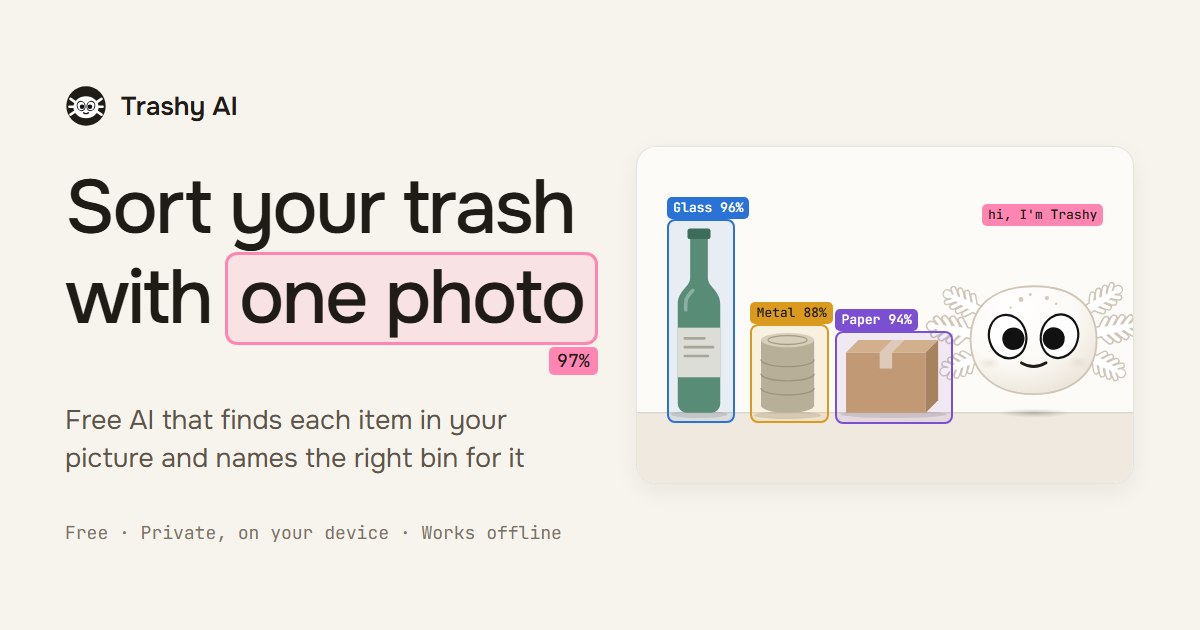
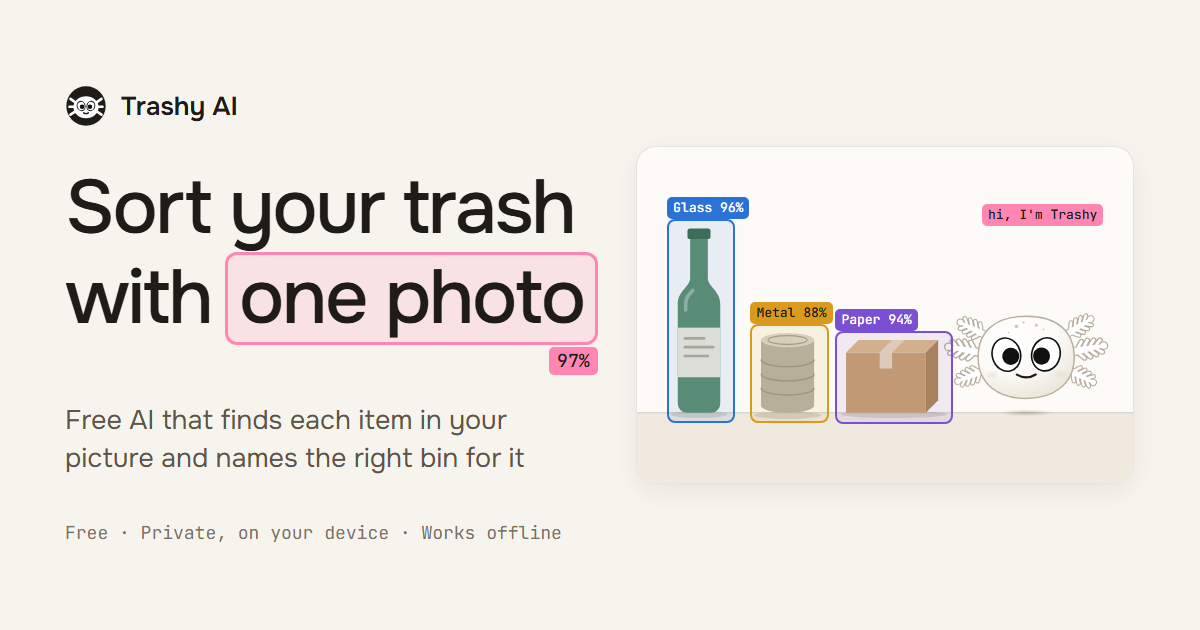
Faster start, label fixes, phone layout and an example photo
Start-up: the status shows the download progress and the greeting
appears right away. The 19 MB backup engine is fetched when a photo
needs it, and ahead of time only in the installed app.

Results: a pencil on each row lets people correct a label or mark it as
not trash. Fixes are kept on the device (at most 120, each with a small
cut-out of the item) and can be saved as a file from the menu. The
privacy policy says so.

Phone start screen: the mascot sits beside a shorter headline so the
greeting fits on the first screen. The chat avatar and the mascot
outline stand out more in light mode.

Opening the app with ?example analyses the bundled example photo; the
about page links to it. Service worker cache is trashy-v8.

Changed region(s): [[0.7708, 0.4524, 0.9558, 0.6333]]

diff --git a/index.html b/index.html
@@ -94,7 +94,10 @@ button:active{transform:scale(.98)}
 .m{display:flex;gap:12px;align-items:flex-end;margin:20px 0;animation:pop .3s var(--ease) both}
 @keyframes pop{from{opacity:0;transform:translateY(8px)}}
 .m.user{justify-content:flex-end}
-.av{flex:none;width:40px;height:40px;border-radius:50%;background:var(--raised);border:1px solid var(--line);overflow:hidden}
+/* the axolotl is white: a deeper tint behind it and a firmer outline keep it readable on the light page */
+.av{flex:none;width:40px;height:40px;border-radius:50%;background:color-mix(in srgb,var(--accent) 34%,var(--raised));border:1px solid var(--line-2);overflow:hidden}
+.av .ax,#heroAx .ax{--ol:#a89c8b}
+@media(prefers-color-scheme:dark){.av{background:var(--raised);border-color:var(--line)}}
 .av svg{display:block;width:100%;height:100%;overflow:hidden}
 .col{flex:1;min-width:0;display:flex;flex-direction:column;align-items:flex-start;gap:4px}
 .who{margin-left:4px;font:400 12px/16px var(--mono);color:var(--mut)}
@@ -119,6 +122,18 @@ button:active{transform:scale(.98)}
 .gr.load{grid-template-columns:1fr 44px;margin-top:8px}
 .gr.load .gt i{transition-duration:.3s}
 .prog{margin-left:8px;color:var(--mut);font-size:14px}
+/* fixing a wrong label: a pencil at the end of each row opens the choices */
+.gr.fx{grid-template-columns:104px 1fr 44px 36px;gap:8px 12px;height:36px}
+.fixb{width:36px;height:36px;padding:0;background:none;color:var(--mut);display:grid;place-items:center}
+.fixb:hover,.fixb[aria-expanded=true]{background:var(--raised);color:var(--ink)}
+.fixb svg{width:16px;height:16px;fill:none;stroke:currentColor;stroke-width:1.5;stroke-linecap:round;stroke-linejoin:round}
+.fixp{margin:4px 0 12px;padding:12px;border:1px solid var(--line);border-radius:12px;background:var(--bg)}
+.fixp p{margin:0 0 8px;font-size:13px;line-height:20px;color:var(--mut)}
+.fixp div{display:flex;flex-wrap:wrap;gap:8px}
+.fixp button{display:inline-flex;align-items:center;gap:8px;height:36px;padding:0 12px;background:var(--surface);border:1px solid var(--line-2);font-size:14px;font-weight:400}
+.fixp button:hover{background:var(--raised)}
+.fixp button::before{content:"";flex:none;width:8px;height:8px;border-radius:2px;background:var(--c,var(--mut))}
+.note{margin:12px 0 0;font-size:13px;line-height:20px;color:var(--mut)}
 .steps2{margin:8px 0 0;padding-left:20px;color:var(--ink-2);font-size:15px}
 .steps2 li{margin:4px 0}
 .typing i{display:inline-block;width:6px;height:6px;margin:4px 2px;border-radius:50%;background:var(--mut);animation:bl 1s infinite}
@@ -190,11 +205,15 @@ dialog[open]::backdrop{background:rgb(22 21 19/.5)}
 
 /* ---------- Small screens ---------- */
 @media(max-width:600px){
- #hero{grid-template-columns:1fr;gap:8px;padding-top:8px}#heroAx{width:140px;margin-left:-16px}
- #hero h1{font-size:36px}#hero p{font-size:16px;line-height:24px}
- .chips{flex-direction:column}
+ /* phone: the axolotl sits beside a shorter headline, so the first chat message stays on the first screen */
+ #hero{grid-template-columns:104px minmax(0,1fr);grid-template-areas:"ax h" "rest rest";gap:4px 12px;align-items:center;padding:4px 0 8px}
+ #hero>div:last-child{display:contents}
+ #heroAx{grid-area:ax;margin-left:-8px}
+ #hero h1{grid-area:h;margin:0;font-size:clamp(26px,7.4vw,32px)}
+ #hero p{grid-column:1/-1;font-size:16px;line-height:24px}
+ .chips{grid-column:1/-1;margin-top:8px;gap:2px 16px}
  .right{gap:8px}.pill{max-width:44vw;font-size:12px}.inst span{display:none}.inst{width:36px;padding:0;justify-content:center}
- .m{gap:8px}.b{max-width:90%}.gr{grid-template-columns:84px 1fr 40px}
+ .m{gap:8px}.b{max-width:90%}.gr{grid-template-columns:84px 1fr 40px}.gr.fx{grid-template-columns:76px 1fr 40px 36px;gap:8px}
 }
 @media(max-width:430px){#gal span{display:none}#gal{width:44px;padding:0}.brand{font-size:0;gap:0}.lang select{padding:0 24px 0 28px}.pill{max-width:none;flex:1 1 auto}}
 @media(prefers-reduced-motion:reduce){*,*::before,*::after,::backdrop{animation:none!important;transition:none!important}}
@@ -212,7 +231,7 @@ dialog[open]::backdrop{background:rgb(22 21 19/.5)}
  <ul class="chips"><li data-i18n="chip1">Finds several items</li><li data-i18n="chip2">Draws a box around each</li><li data-i18n="chip3">Shows how sure it is</li></ul></div></section></main>
 <div class="dock">
  <div id="drop">
-  <nav id="menu" aria-label="Menu"><button type="button" data-a="how" data-i18n="mHow">How it works</button><button type="button" data-a="clear" data-i18n="mClear">Clear chat</button><button type="button" data-a="install" id="instMenu" data-i18n="mInstall" hidden>Install on your phone</button><div id="detMenu" role="radiogroup" aria-labelledby="detL"><p id="detL" data-i18n="mModel">Model</p><button type="button" data-m="t01" role="radio" aria-checked="true"><b>Trashy-0.1</b><small data-i18n="dT01">Finds more items</small></button><button type="button" data-m="axel1" role="radio" aria-checked="false"><b>Trashy-Axel 1.3</b><small data-i18n="dAxel">Fewer extra boxes</small></button></div></nav>
+  <nav id="menu" aria-label="Menu"><button type="button" data-a="how" data-i18n="mHow">How it works</button><button type="button" data-a="clear" data-i18n="mClear">Clear chat</button><button type="button" data-a="export" id="fixMenu" hidden></button><button type="button" data-a="install" id="instMenu" data-i18n="mInstall" hidden>Install on your phone</button><div id="detMenu" role="radiogroup" aria-labelledby="detL"><p id="detL" data-i18n="mModel">Model</p><button type="button" data-m="t01" role="radio" aria-checked="true"><b>Trashy-0.1</b><small data-i18n="dT01">Finds more items</small></button><button type="button" data-m="axel1" role="radio" aria-checked="false"><b>Trashy-Axel 1.3</b><small data-i18n="dAxel">Fewer extra boxes</small></button></div></nav>
   <div class="bar"><button type="button" class="act main" id="cam"><svg viewBox="0 0 24 24" aria-hidden="true"><path d="M4 8.5A2.5 2.5 0 0 1 6.5 6h1.7l1.3-2h5l1.3 2h1.7A2.5 2.5 0 0 1 20 8.5v8a2.5 2.5 0 0 1-2.5 2.5h-11A2.5 2.5 0 0 1 4 16.5z"/><circle cx="12" cy="12.3" r="3.4"/></svg><span data-i18n="take">Take photo</span></button><button type="button" class="act main" id="gal" aria-label="Choose photo" data-i18n-aria="choose"><svg viewBox="0 0 24 24" aria-hidden="true"><rect x="3.5" y="4.5" width="17" height="15" rx="3"/><circle cx="9" cy="10" r="1.8"/><path d="M20.5 15.5l-4.5-4.5-8.5 8.5"/></svg><span data-i18n="choose">Choose photo</span></button><span class="or" data-i18n="dropHint">or drop or paste a picture here</span><button id="pick" type="button" aria-label="More" data-i18n-aria="more" aria-haspopup="true" aria-expanded="false" aria-controls="menu"><svg viewBox="0 0 24 24" aria-hidden="true"><circle cx="5.5" cy="12" r="1.6"/><circle cx="12" cy="12" r="1.6"/><circle cx="18.5" cy="12" r="1.6"/></svg></button></div>
   <input id="files" type="file" accept="image/*" multiple hidden>
   <input id="camIn" type="file" accept="image/*" capture="environment" hidden>
@@ -224,7 +243,7 @@ dialog[open]::backdrop{background:rgb(22 21 19/.5)}
 
 <template id="axFallback"><svg xmlns="http://www.w3.org/2000/svg" xmlns:xlink="http://www.w3.org/1999/xlink" class="ax s-idle" viewBox="0 30 400 340" width="400" height="340" role="img" aria-label="Axolotl creature mascot">
 <style>
-.ax{color-scheme:only light;--hd1:#fff;--hd2:#fcfaf6;--hd3:#e9e2d6;--ol:#cfc6b8;--ln:#1f1b16;--eo:#111;--se:#111;--sc:#fff;--pa:#111;--pb:#111;--bl:#d8cfc2;overflow:visible}
+.ax{color-scheme:only light;--hd1:#fff;--hd2:#fcfaf6;--hd3:#e9e2d6;--ol:#b9ad9c;--ln:#1f1b16;--eo:#111;--se:#111;--sc:#fff;--pa:#111;--pb:#111;--bl:#d8cfc2;overflow:visible}
 .ax .ly,.ax .ax-dec{opacity:0}
 .ax.s-idle .l-idle,.ax.s-joy .l-joy,.ax.s-love .l-love,.ax.s-cool .l-cool,.ax.s-wow .l-wow,
 .ax.s-angry .l-angry,.ax.s-loading .l-loading,.ax.s-sleep .l-sleep{opacity:1}
@@ -472,6 +491,7 @@ en:{title:'Trashy: Trash sorting AI',lang:'Language',loading:'Loading…',
  scanning:p=>`Scanning ${p}%`,fitting:'Fitting the boxes…',waiting:'Waiting for my turn…',looking:'Looking…',
  noModel:'I can’t find my model file.',noNet:'My image engine didn’t load. Reload the page to try again.',
  noTrash:'I don’t see any trash I know in this picture.',badPic:'I couldn’t read that picture. Try another one.',
+ fix:'Wrong? Fix it',fixQ:'What is it really?',fixNone:'Not trash',fixSaved:'Thanks. Your fix is saved on this device only.',fixAll:'Thanks. I took the boxes away.',mExport:n=>`Save my fixes as a file (${n})`,
  cats:{Paper:'Paper',Plastic:'Plastic',Glass:'Glass',Metal:'Metal',Trash:'Trash'},
  iTitle:'Put Trashy on your phone',iIntro:'Trashy then opens like an app from your home screen. After the first start it also works without internet.',
  iBtn:'Install Trashy',iDone:'Trashy is installed. You can open it from your home screen.',
@@ -497,6 +517,7 @@ de:{title:'Trashy: KI zum Mülltrennen',lang:'Sprache',loading:'Wird geladen…'
  scanning:p=>`Suche… ${p}%`,fitting:'Rahmen werden angepasst…',waiting:'Gleich bin ich dran…',looking:'Ich schaue…',
  noModel:'Ich finde meine Modelldatei nicht.',noNet:'Meine Bilderkennung wurde nicht geladen. Lade die Seite neu und versuch es nochmal.',
  noTrash:'Auf diesem Bild sehe ich keinen Müll, den ich kenne.',badPic:'Ich konnte dieses Bild nicht lesen. Probier ein anderes.',
+ fix:'Falsch? Korrigieren',fixQ:'Was ist es wirklich?',fixNone:'Kein Müll',fixSaved:'Danke. Deine Korrektur ist nur auf diesem Gerät gespeichert.',fixAll:'Danke. Ich habe die Rahmen entfernt.',mExport:n=>`Meine Korrekturen als Datei speichern (${n})`,
  cats:{Paper:'Papier',Plastic:'Plastik',Glass:'Glas',Metal:'Metall',Trash:'Restmüll'},
  iTitle:'Trashy aufs Handy holen',iIntro:'Dann öffnet sich Trashy wie eine App von deinem Startbildschirm. Nach dem ersten Start funktioniert es auch ohne Internet.',
  iBtn:'Trashy installieren',iDone:'Trashy ist installiert. Du findest es auf deinem Startbildschirm.',
@@ -522,6 +543,7 @@ ru:{title:'Trashy: ИИ для сортировки мусора',lang:'Язык
  scanning:p=>`Сканирую… ${p}%`,fitting:'Подгоняю рамки…',waiting:'Жду своей очереди…',looking:'Смотрю…',
  noModel:'Не могу найти файл модели.',noNet:'Распознавание изображений не загрузилось. Перезагрузите страницу и попробуйте снова.',
  noTrash:'Не вижу на этом фото знакомого мне мусора.',badPic:'Не получилось открыть это фото. Попробуйте другое.',
+ fix:'Неверно? Исправить',fixQ:'Что это на самом деле?',fixNone:'Не мусор',fixSaved:'Спасибо. Исправление сохранено только на этом устройстве.',fixAll:'Спасибо. Я убрал рамки.',mExport:n=>`Сохранить мои исправления в файл (${n})`,
  cats:{Paper:'Бумага',Plastic:'Пластик',Glass:'Стекло',Metal:'Металл',Trash:'Прочий мусор'},
  iTitle:'Установить Trashy на телефон',iIntro:'Trashy будет открываться как приложение с главного экрана. После первого запуска он работает и без интернета.',
  iBtn:'Установить Trashy',iDone:'Trashy установлен. Он теперь на вашем главном экране.',
@@ -546,14 +568,14 @@ function applyLang(){
  $('lang').value=S.lang;$('lang').setAttribute('aria-label',tr('lang'));
  document.querySelectorAll('[data-i18n]').forEach(e=>{if(e.id!=='status')e.innerHTML=tr(e.dataset.i18n)});
  document.querySelectorAll('[data-i18n-aria]').forEach(e=>e.setAttribute('aria-label',tr(e.dataset.i18nAria)));
- status(...S.status);
+ status(...S.status);syncExport();
  if($('instDlg').open)fillInstall();
 }
 function setLang(l){
  S.lang=LANGS.includes(l)?l:'en';store.set('trashy-lang',S.lang);
  const u=new URL(location.href);if(u.searchParams.has('lang')){u.searchParams.set('lang',S.lang);history.replaceState(null,'',u)}
  applyLang();
- if(!document.querySelector('.m.user')&&isReady()){clearChat();greet()} /* nothing sent yet: say hello again in the new language */
+ if(!document.querySelector('.m.user')&&document.querySelector('.m.ai')&&!S.load.msg){clearChat();greet()} /* nothing sent yet: say hello again in the new language */
 }
 
 /* ---------- Status pill ---------- */
@@ -704,12 +726,54 @@ function showResult(row,r){
  const t=r[0];
  answer(row,{line:fmt(t.p>=.8?'sure':t.p>=.5?'likely':'unsure',t.n),m:t.p>=.5?'joy':'wow',cap:tr('howSure'),items:r});
 }
-function showDetections(row,img,ds){
- ds=ds.map(d=>({...d,n:cat(d.n)}));
- const counts={};ds.forEach(d=>counts[d.n]=(counts[d.n]||0)+1);
+function showDetections(row,img,raw,note){
+ const ds=raw.map(d=>({...d,n:cat(d.n)}));
+ const counts={};raw.forEach(d=>{const n=cat(d.n);counts[n]=(counts[n]||0)+1});
  const sum=Object.entries(counts).map(([n,k])=>fmt('count',k,n)).join(', ');
  const avg=ds.reduce((s,d)=>s+d.p,0)/ds.length;
- answer(row,{line:ds.length===1?fmt('found1',ds[0].n):fmt('foundN',ds.length,sum),m:avg>=.75?'joy':'wow',pic:annotate(img,ds),cap:tr('howSureBox'),items:ds});
+ answer(row,{line:ds.length===1?fmt('found1',cat(raw[0].n)):fmt('foundN',ds.length,sum),m:avg>=.75?'joy':'wow',pic:annotate(img,ds),cap:tr('howSureBox'),items:ds});
+ addFixes(row,img,raw);
+ if(note)body(row).append(h('p',{class:'note',text:note}));
+}
+
+/* ---------- Fixes: a wrong label can be corrected. The fix (old and new label, the box and a small cut-out of the item) is kept
+   on this device only, at most FIX_MAX of them, and can be saved as a file from the menu to help train the next model. ---------- */
+const FIX_KEY='trashy-fixes',FIX_MAX=120;
+const PENCIL='<svg viewBox="0 0 24 24" aria-hidden="true"><path d="M4 20l1-4L16.5 4.5a2.1 2.1 0 0 1 3 3L8 19z"/><path d="M14.5 6.5l3 3"/></svg>';
+function fixes(){try{const a=JSON.parse(store.get(FIX_KEY)||'[]');return Array.isArray(a)?a:[]}catch(_){return []}}
+function syncExport(){const n=fixes().length,b=$('fixMenu');b.hidden=!n;b.textContent=fmt('mExport',n)}
+function saveFix(f){store.set(FIX_KEY,JSON.stringify([...fixes(),f].slice(-FIX_MAX)));syncExport()}
+/* a cut-out of one item, at most 160 px on its longer side */
+function cutOut(img,d){
+ const sc=Math.min(1,160/Math.max(d.w,d.h)),c=h('canvas',{width:Math.max(1,Math.round(d.w*sc)),height:Math.max(1,Math.round(d.h*sc))});
+ c.getContext('2d').drawImage(img,d.x,d.y,d.w,d.h,0,0,c.width,c.height);
+ try{return c.toDataURL('image/jpeg',.7)}catch(_){return null}
+}
+function addFixes(row,img,raw){
+ body(row).querySelectorAll('.graph .gr').forEach((gr,i)=>{
+  const b=h('button',{type:'button',class:'fixb','aria-label':tr('fix'),title:tr('fix'),'aria-expanded':'false',onclick:()=>askFix(row,img,raw,i,gr,b)});
+  b.innerHTML=PENCIL;gr.classList.add('fx');gr.append(b);
+  if(raw[i].fixed)gr.querySelector('.gp').textContent='✓'; /* a corrected item shows a tick, not a percentage */
+ });
+}
+function askFix(row,img,raw,i,gr,btn){
+ const open=body(row).querySelector('.fixp');
+ if(open){const same=open.previousElementSibling===gr;open.remove();body(row).querySelectorAll('.fixb').forEach(b=>b.setAttribute('aria-expanded','false'));if(same)return}
+ const d=raw[i];
+ const pick=to=>{
+  saveFix({t:new Date().toISOString(),model:botName(),from:d.n,to,p:+d.p.toFixed(3),box:[d.x,d.y,d.w,d.h].map(Math.round),size:[img.naturalWidth,img.naturalHeight],crop:cutOut(img,d)});
+  if(to)Object.assign(d,{n:to,c:colorOf(to),p:1,fixed:true});else raw.splice(i,1);
+  if(raw.length)showDetections(row,img,raw,tr('fixSaved'));
+  else{say(row,tr('fixAll'),'joy');body(row).append(h('p',{class:'note',text:tr('fixSaved')}))}
+ };
+ btn.setAttribute('aria-expanded','true');
+ gr.after(h('div',{class:'fixp'},h('p',{text:tr('fixQ')}),h('div',null,
+  Object.keys(COLORS).filter(n=>n!==d.n).map(n=>h('button',{type:'button',style:{'--c':colorOf(n)},text:cat(n),onclick:()=>pick(n)})),
+  h('button',{type:'button',text:tr('fixNone'),onclick:()=>pick(null)}))));
+}
+function exportFixes(){
+ const a=h('a',{href:URL.createObjectURL(new Blob([JSON.stringify({format:'trashy-fixes-v1',fixes:fixes()})],{type:'application/json'})),download:'trashy-fixes-'+new Date().toISOString().slice(0,10)+'.json'});
+ document.body.append(a);a.click();a.remove();setTimeout(()=>URL.revokeObjectURL(a.href),10000);
 }
 
 /* ---------- Classic method (backup): MobileNet features compared with stored examples ---------- */
@@ -853,7 +917,7 @@ function annotate(img,ds){
  x.font=`500 ${fs}px "JetBrains Mono",ui-monospace,Consolas,monospace`;x.textBaseline='middle';x.lineJoin='round';
  const rr=(a,b,w,hh,r)=>{x.beginPath();x.moveTo(a+r,b);x.arcTo(a+w,b,a+w,b+hh,r);x.arcTo(a+w,b+hh,a,b+hh,r);x.arcTo(a,b+hh,a,b,r);x.arcTo(a,b,a+w,b,r);x.closePath()};
  const boxes=ds.map(d=>{
-  const bx=d.x*sc,by=d.y*sc,bw=d.w*sc,bh=d.h*sc,t=`${d.n} ${Math.round(d.p*100)}%`,tw=x.measureText(t).width+14,th=fs+10;
+  const bx=d.x*sc,by=d.y*sc,bw=d.w*sc,bh=d.h*sc,t=d.fixed?d.n+' ✓':`${d.n} ${Math.round(d.p*100)}%`,tw=x.measureText(t).width+14,th=fs+10;
   const n=parseInt(String(d.c).slice(1),16),lum=.299*(n>>16&255)+.587*(n>>8&255)+.114*(n&255);
   const free=([a,b])=>a>=0&&b>=0&&a+tw<=c.width&&b+th<=c.height&&!placed.some(q=>a<q[0]+q[2]&&a+tw>q[0]&&b<q[1]+q[3]&&b+th>q[1]);
   const at=[[bx,by-th],[bx,by],[bx+bw-tw,by-th],[bx+bw-tw,by+bh],[bx,by+bh]].find(free)||[Math.max(0,Math.min(c.width-tw,bx)),Math.max(0,Math.min(c.height-th,by))];
@@ -991,16 +1055,20 @@ async function detectDF(img){
 
 /* ---------- Start-up ---------- */
 $('detMenu').hidden=FILE;markDetMenu();
-S.det.ready=useDetector(S.det.id);
+/* the first download is the big one (about 30 MB), so the status shows how far it is */
+S.det.ready=useDetector(S.det.id,FILE?null:p=>status('','loadingM',modelById(S.det.id).name,p));
 const ready=(async()=>{
  const first=S.det.ready;
  await loadAxolotl();
+ greet(); /* say hello right away; a photo sent now waits for the model */
  await first;
- if(!S.det.cur&&!await loadClassic())return; /* no detector: the classic method has to do the work */
- greet();
+ if(!S.det.cur&&!await loadClassic()){document.querySelectorAll('.m.ai').forEach(m=>m.remove());return} /* no detector: the classic method has to do the work */
  if(S.det.ready===first)showReady(); /* otherwise a model switch is already showing its own progress */
 })();
-const backup=ready.then(()=>new Promise(r=>later(r))).then(loadClassic); /* also saves it for offline use */
+/* The backup method is another 19 MB. It is fetched when a photo needs it. Only the installed app fetches it ahead of time, so it also works offline. */
+const installed=()=>matchMedia('(display-mode: standalone)').matches||navigator.standalone===true;
+const backup=ready.then(()=>new Promise(r=>later(r))).then(()=>installed()?loadClassic():null);
+addEventListener('appinstalled',()=>ready.then(loadClassic));
 
 /* ---------- Photos ---------- */
 function add(files){
@@ -1035,6 +1103,10 @@ async function handle({url,row}){
   showResult(row,r.filter(x=>x.n!=='background'));
  }catch(_){say(row,tr('badPic'),'wow')}
 }
+/* opened with ?example (the about page links here like that): look at the example photo straight away */
+if(!FILE&&new URLSearchParams(location.search).has('example'))ready.then(async()=>{
+ try{const r=await fetch('example.jpg');if(r.ok)add([new File([await r.blob()],'example.jpg',{type:'image/jpeg'})])}catch(_){}
+});
 $('gal').onclick=()=>$('files').click();
 $('cam').onclick=()=>$('camIn').click();
 ['files','camIn'].forEach(id=>$(id).onchange=e=>{add(e.target.files);e.target.value=''});
@@ -1051,7 +1123,7 @@ const menuBtn=$('pick'),menuEl=$('menu');
 const menuOpen=()=>menuEl.classList.contains('open');
 function menu(open){menuBtn.setAttribute('aria-expanded',open);menuEl.classList.toggle('open',open)}
 menuBtn.onclick=e=>{e.stopPropagation();menu(!menuOpen())};
-const ACTIONS={how,install:openInstall,clear:()=>{clearChat();if(isReady())greet()}};
+const ACTIONS={how,install:openInstall,export:exportFixes,clear:()=>{clearChat();if(isReady())greet()}};
 menuEl.onclick=e=>{
  const b=e.target.closest('button');if(!b)return;menu(false);
  if(b.dataset.m)pickDetector(b.dataset.m);else ACTIONS[b.dataset.a]?.();

diff --git a/privacy.html b/privacy.html
@@ -32,11 +32,11 @@ footer p{margin:0;color:var(--mut)}
 <article><h1>Privacy Policy</h1><p class="up">Last updated: 5 November 2026</p>
 <h2>1. Who is responsible</h2><p>Alexej Ryabenko, Am Kleekamp 26, 52249 Eschweiler, Germany. Email: <a href="mailto:alexej.ryabenkostalk41@gmail.com">alexej.ryabenkostalk41@gmail.com</a>.</p>
 <h2>2. In short</h2><p>Trashy looks at your pictures on your own device. I do not upload, store or see your pictures. There are no accounts, no cookies, no analytics and no ads.</p>
-<h2>3. Your pictures</h2><p>When you choose a picture, your browser reads it and the AI running in your browser finds items in it and compares them with the trained model file. The picture, the boxes and the results are not sent to any server and are not stored. They are gone when you close or reload the page.</p>
+<h2>3. Your pictures</h2><p>When you choose a picture, your browser reads it and the AI running in your browser finds items in it and compares them with the trained model file. The picture, the boxes and the results are not sent to any server and are not stored. They are gone when you close or reload the page. There is one exception: if you correct a wrong label, the correction and a small cut-out of that one item are saved in your browser on your device, so that you can save them as a file if you want to. The app never sends them anywhere. Clearing the site data in your browser removes them.</p>
 <h2>4. The model file</h2><p>The page loads a trained model file from the same host. It contains numbers derived from the training pictures, not your pictures.</p>
 <h2>5. Hosting and server logs</h2><p>This website is hosted by GitHub Pages (GitHub, Inc., USA). When you open a page, the host receives technical data such as your IP address, the date and time, the requested file and your browser type, and keeps it in server logs to deliver and secure the site. I do not use this data to identify you. Legal basis: Art. 6(1)(f) GDPR (my legitimate interest in running a secure website). GitHub may process data in the USA; where required, the transfer relies on EU standard contractual clauses or the EU–US Data Privacy Framework.</p>
 <h2>6. No services from other providers</h2><p>Everything the page needs is stored on this website and loaded from the same host: the code, the TensorFlow.js and MobileNet libraries, the MobileNet model files used to read pictures, and the fonts (Onest and JetBrains Mono). The page does not load anything from other providers, so no data is sent to them. Once the page has loaded, the AI runs entirely in your browser.</p>
-<h2>7. Cookies and local storage</h2><p>I do not use cookies, local storage or similar tracking technologies.</p>
+<h2>7. Cookies and local storage</h2><p>I do not use cookies or tracking technologies. The app keeps three things in the local storage of your browser, on your device only: your language, the model you chose, and any corrections you made. None of this is sent anywhere.</p>
 <h2>8. Your rights</h2><p>Under Art. 15 to 21 GDPR you have the right to access, rectification, erasure, restriction of processing, data portability and objection. You can withdraw any consent at any time. Because I do not store personal data on my own servers, most requests concern the host named above. To use your rights, contact me at <a href="mailto:alexej.ryabenkostalk41@gmail.com">alexej.ryabenkostalk41@gmail.com</a>.</p>
 <p>You can also complain to a data protection supervisory authority. The authority responsible for me is the Landesbeauftragte für Datenschutz und Informationsfreiheit Nordrhein-Westfalen (LDI NRW), Kavalleriestraße 2–4, 40213 Düsseldorf, <a href="https://www.ldi.nrw.de" rel="noopener">www.ldi.nrw.de</a>. You may also contact the authority where you live or work.</p>
 <h2>9. Changes</h2><p>I may update this policy when the website changes. The date above shows the latest version.</p>

diff --git a/sw.js b/sw.js
@@ -2,7 +2,7 @@
    The page itself is fetched fresh when online (so updates show up), with the saved copy used offline.
    Everything else (models, libraries, fonts) is saved the first time it loads and then used from the phone.
    Change VERSION whenever a model or library file changes, so phones fetch the new files. */
-const VERSION = 'trashy-v7';
+const VERSION = 'trashy-v8';
 const CORE = ['./', 'index.html', 'manifest.webmanifest', 'icons/icon-192.png', 'icons/apple-touch-icon.png'];
 
 self.addEventListener('install', (e) => {
